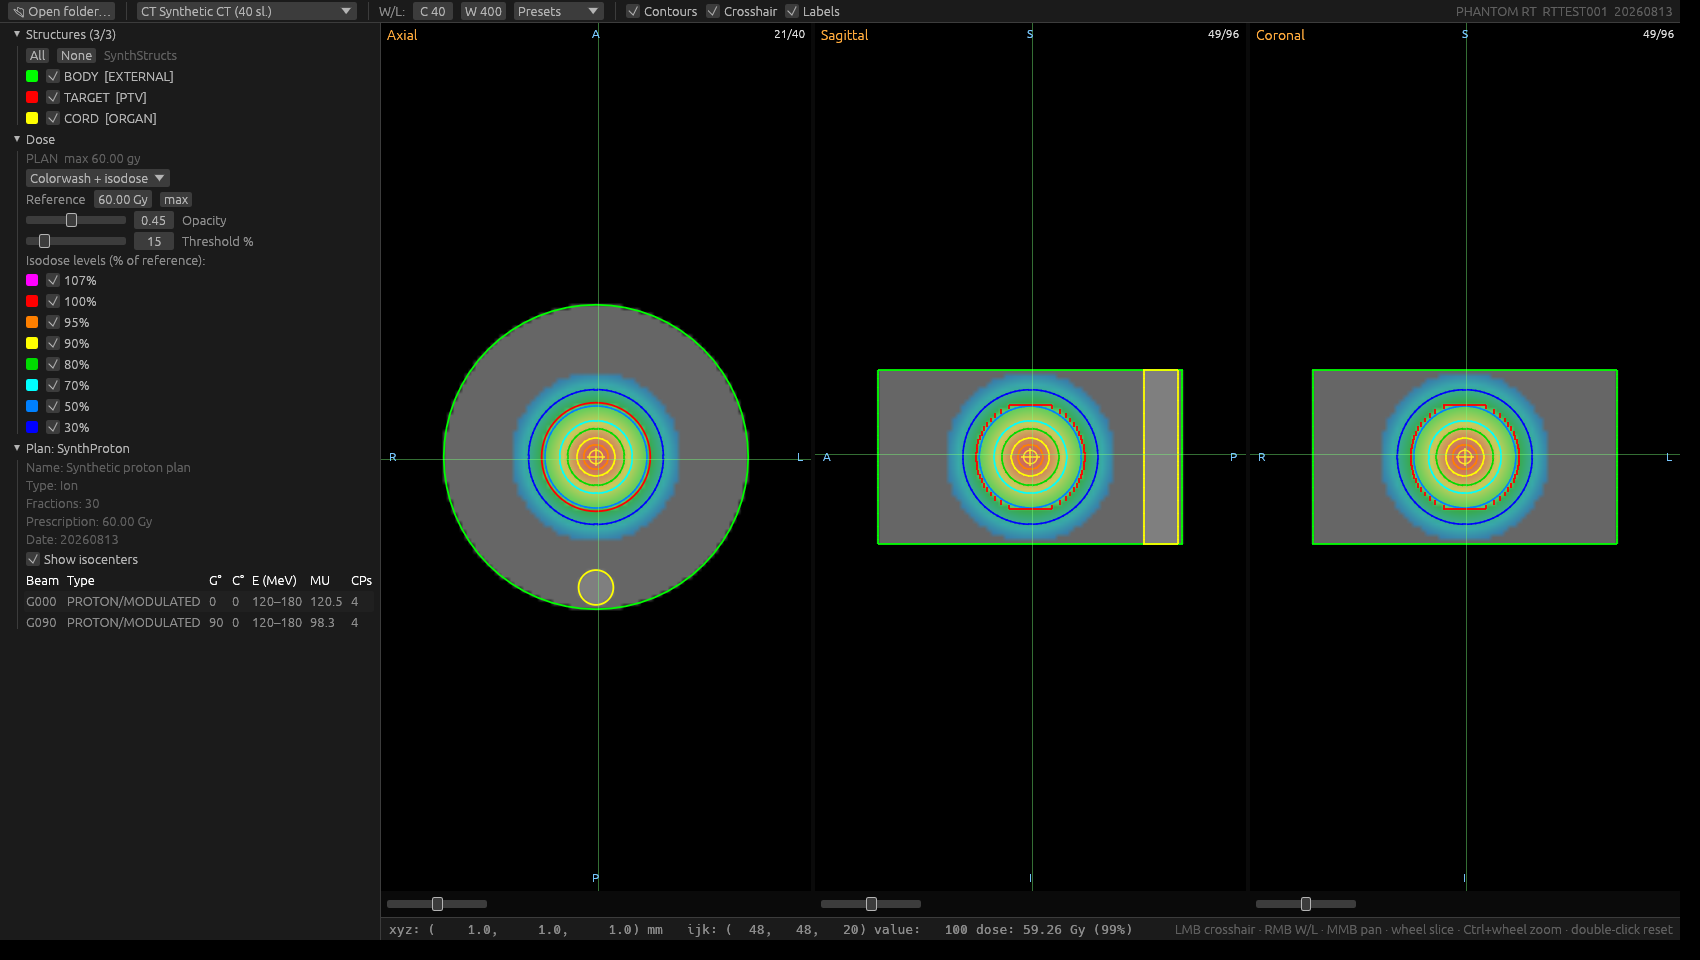
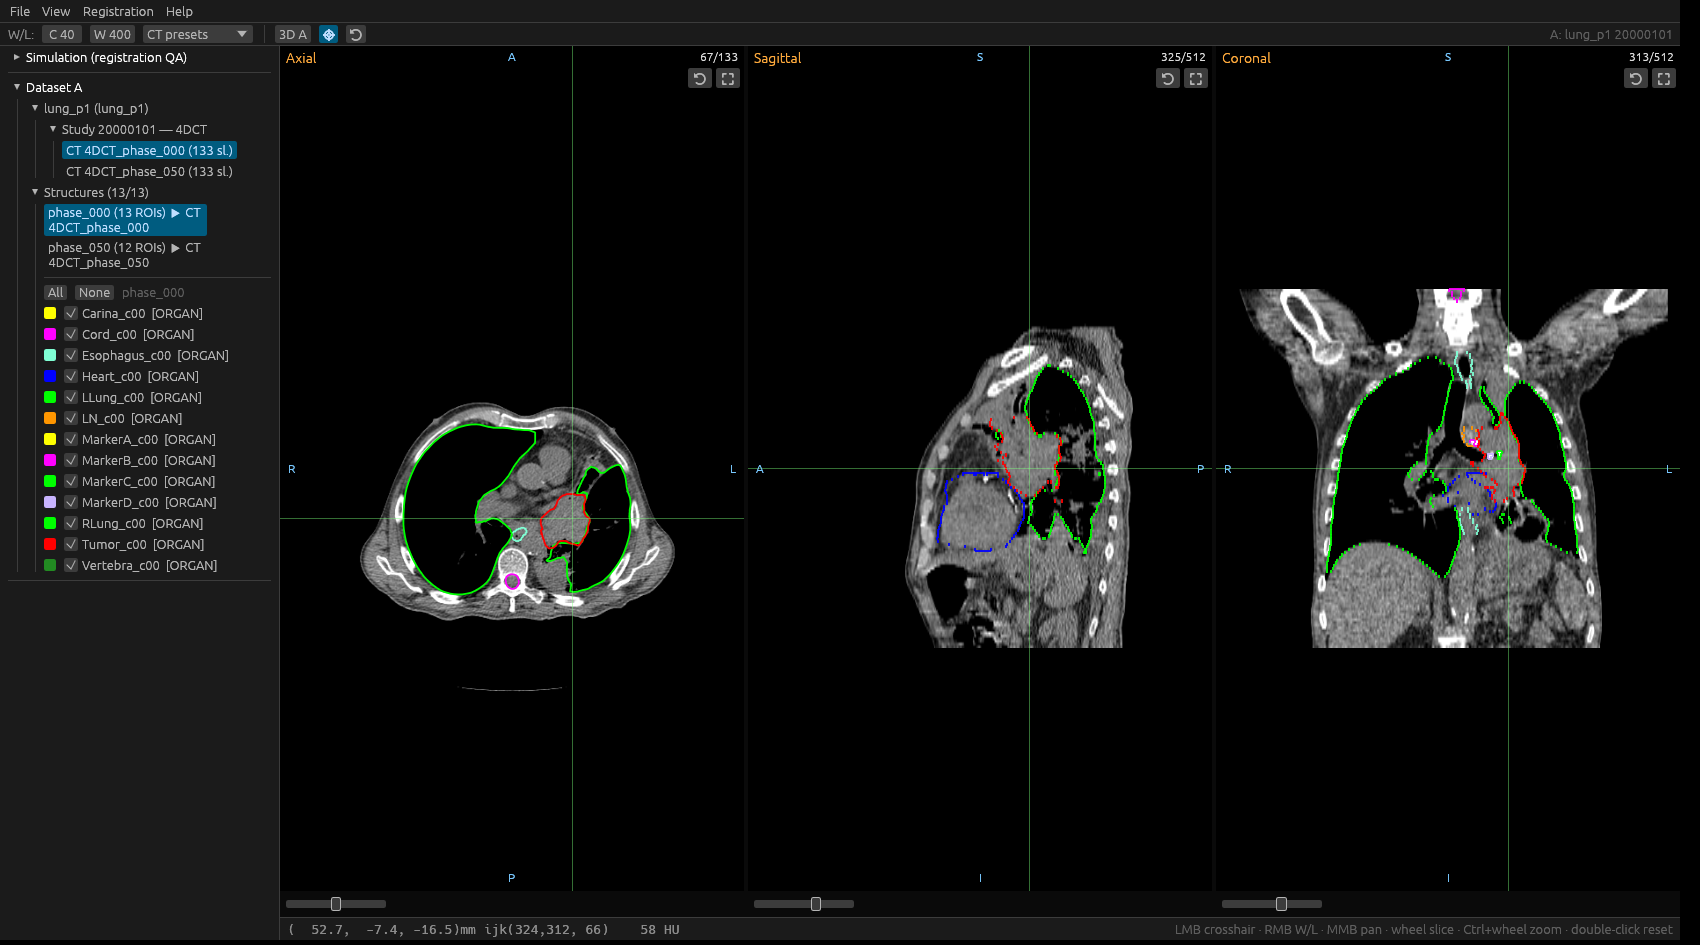
readme + small gui updates

Changed region(s): [[0.0, 0.0, 0.9976, 1.0], [0.7171, 0.3069, 0.9976, 0.7058], [0.4988, 0.3376, 0.7171, 0.7058]]

diff --git a/src/app.rs b/src/app.rs
@@ -862,11 +862,21 @@ impl ViewerApp {
         self.gen_job = Some(GenJob { progress, rx });
     }
 
+    /// Reset zoom, pan and slice (back to the volume center) of every view.
     fn reset_all_views(&mut self) {
         for s in &mut self.slots {
+            let dims = s.study.as_ref().map(|st| st.volume.dims);
             for v in &mut s.views {
                 v.zoom = 0.0;
                 v.pan = Vec2::ZERO;
+                if let Some(dims) = dims {
+                    v.slice = match v.plane {
+                        ViewPlane::Axial => dims[2] / 2,
+                        ViewPlane::Sagittal => dims[0] / 2,
+                        ViewPlane::Coronal => dims[1] / 2,
+                    };
+                    v.invalidate();
+                }
             }
         }
     }
@@ -1686,15 +1696,6 @@ impl ViewerApp {
                     }
 
                     ui.separator();
-                    // Slice-intersection (crosshair) toggle.
-                    if ui
-                        .selectable_label(self.show_crosshair, "⌖")
-                        .on_hover_text("Show / hide the slice intersection (crosshair)")
-                        .clicked()
-                    {
-                        self.show_crosshair = !self.show_crosshair;
-                    }
-
                     // 3D structure rendering windows.
                     for slot in 0..2 {
                         let has_structs = self.slots[slot]
@@ -1718,6 +1719,29 @@ impl ViewerApp {
                         {
                             self.open_d3_window(slot);
                         }
+                    }
+
+                    // Slice-intersection (crosshair) toggle. With the
+                    // crosshair hidden, left-click navigation is disabled.
+                    if ui
+                        .selectable_label(self.show_crosshair, "⌖")
+                        .on_hover_text(
+                            "Show / hide the slice intersection (crosshair).\n\
+                             Hidden: left click does not navigate — slices change \
+                             only by scrolling each view",
+                        )
+                        .clicked()
+                    {
+                        self.show_crosshair = !self.show_crosshair;
+                    }
+
+                    // Reset every view of both datasets.
+                    if ui
+                        .button("⟲")
+                        .on_hover_text("Reset all views (zoom, pan and slice)")
+                        .clicked()
+                    {
+                        self.reset_all_views();
                     }
                 }
 
@@ -2003,28 +2027,8 @@ impl ViewerApp {
     }
 
     fn study_section(&mut self, ui: &mut egui::Ui, slot: usize) {
-        let header = {
-            let study = self.slots[slot].study.as_ref().unwrap();
-            // Distinct patients in this dataset.
-            let mut pats: Vec<&str> = Vec::new();
-            for s in &study.series {
-                let k = s.patient_key();
-                if !pats.contains(&k) {
-                    pats.push(k);
-                }
-            }
-            if pats.len() > 1 {
-                format!("Dataset {} — {} patients", SLOT_NAMES[slot], pats.len())
-            } else {
-                let m = &study.meta;
-                format!(
-                    "Dataset {} — {} {}",
-                    SLOT_NAMES[slot],
-                    m.patient_name.replace('^', " "),
-                    m.study_date
-                )
-            }
-        };
+        // Plain header — the patient(s) always appear as tree nodes below.
+        let header = format!("Dataset {}", SLOT_NAMES[slot]);
         let ch = egui::CollapsingHeader::new(egui::RichText::new(header).strong())
             .id_salt(("study_hdr", slot))
             .default_open(true)
@@ -3477,7 +3481,12 @@ impl ViewerApp {
             }
         }
 
-        if (resp.dragged_by(egui::PointerButton::Primary) || resp.clicked()) && !over_buttons {
+        // Left-click crosshair navigation only while the crosshair is shown;
+        // with ⌖ off, slices change only by scrolling the hovered view.
+        if self.show_crosshair
+            && (resp.dragged_by(egui::PointerButton::Primary) || resp.clicked())
+            && !over_buttons
+        {
             if let Some(mp) = resp.interact_pointer_pos() {
                 let px = screen_to_px(mp);
                 let vxl = vol.plane_pixel_to_voxel(plane, view.slice, px[0] as f64, px[1] as f64);

diff --git a/README.md b/README.md
@@ -11,9 +11,25 @@ Rust — aligns the two datasets with a fusion overlay.
 
 ![screenshot](docs/screenshot.png)
 
+*Single dataset: a lung 4DCT phase with its RT Structure Set (lungs, heart,
+tumor, cord, markers). The crosshair sits in the tumor; the axial view draws
+the native RTSTRUCT contours, sagittal/coronal show reconstructed
+cross-sections of the same ROIs.*
+
 ![comparison mode](docs/screenshot_comparison.png)
 
+*Comparison mode: two opposite breathing phases of the same 4DCT
+(dataset A = phase 0 %, dataset B = phase 50 %), each with its own
+phase-specific structure set. The linked crosshair pins all six views to the
+same patient-space point inside the tumor, so the respiratory shift of the
+diaphragm and tumor is read directly by comparing the rows.*
+
 ![registration](docs/screenshot_registration.png)
+
+*Deformable registration B ▶ A on the two phases: the sidebar reports the
+recovered transform and metric improvement, and the top row now shows the
+magenta/green fusion — aligned anatomy reads gray, residual mismatch shows
+as color fringes.*
 
 ## Features
 
@@ -80,6 +96,19 @@ for A and B side by side. Dataset B can be closed again from the File menu,
 and comparison mode can be switched on/off at any time without unloading
 anything.
 
+A concrete example, shown in the screenshot above with the bundled patient
+data: load `example_data/` and both 4DCT phases appear as two series of one
+study. Right-click *CT 4DCT_phase_050* ▶ *Copy series to dataset B* — the
+phase moves into the lower row together with its own phase-specific
+RTSTRUCT (the reference chain picks the correct one automatically), and
+comparison mode switches on. Click the tumor in any view: because the
+crosshairs are linked through patient coordinates, all six panels jump to
+that point, and the differences between the phases — diaphragm position,
+tumor displacement, chest-wall shape — are read directly by comparing the
+two rows slice by slice. The two phases share one frame of reference, so
+before any registration this is a pure anatomical comparison of the same
+coordinates at two moments of the breathing cycle.
+
 **Image registration (rigid & non-rigid).** With two datasets loaded, the
 *Registration* menu (or the sidebar section) registers one dataset onto the
 other — the direction is selectable (**B ▶ A** or **A ▶ B**; the second
@@ -110,10 +139,24 @@ translation/rotation, and enables a **magenta/green fusion overlay** on the
 fixed study (fixed image in magenta, the transformed moving image in green —
 aligned anatomy reads gray) with a blend slider. The cross-study crosshair
 link maps through the recovered transform (inverse included), so clicking a
-point in either study lands on the same anatomy in the other. Iterations, samples and grid spacing are adjustable in the
-sidebar. Accuracy is verified in `tests/registration.rs` against analytically
-known transforms: sub-millimeter recovery for both a rigid rotation +
-translation and a 7 mm Gaussian-bump deformation.
+point in either study lands on the same anatomy in the other. Iterations,
+samples and grid spacing are adjustable in the sidebar.
+
+On the bundled patient data (registration screenshot above) the workflow
+is: two breathing phases loaded as datasets A and B, direction left at
+**B ▶ A**, one click on *▶ Deformable*. On this 512 × 512 × 133 CT the
+whole run — rigid pre-alignment plus three B-spline resolution levels,
+1800 iterations total — takes about 20 s on a desktop CPU and drives the
+mean-squared HU difference from ≈ 9700 down to ≈ 1800. The recovered rigid
+part is sub-millimeter (the phases share one frame of reference, so almost
+all real motion is breathing deformation, which the B-spline absorbs), and
+the fusion overlay turns mostly gray: the remaining magenta/green fringes
+at the diaphragm and chest wall mark exactly the residual respiratory
+motion the 32 mm grid cannot fully model — tightening the grid spacing
+refines it further at the cost of runtime. Accuracy is verified in
+`tests/registration.rs` against analytically known transforms:
+sub-millimeter recovery for both a rigid rotation + translation and a 7 mm
+Gaussian-bump deformation.
 
 **Planar images (DX / CR / RTIMAGE).** Digital radiographs and RT images
 (DRRs, portal / setup images) found in the study folder are listed in the
@@ -197,8 +240,12 @@ reopening the window is instant.
 Each viewport also carries two corner buttons: **⟲** resets that view's zoom,
 pan **and slice** (back to the volume's central slice), and **⛶ / ❐**
 maximizes the view to fill the whole window and restores the multi-view
-layout again. The **⌖** toggle in the toolbar shows/hides the slice
-intersection lines (crosshair) in all views.
+layout again. The toolbar holds the **3D A / 3D B** buttons, the **⌖**
+toggle and a global **⟲** that resets every view of both datasets at once.
+**⌖** shows/hides the slice intersection lines (crosshair) — and while the
+crosshair is hidden, left-click navigation is disabled entirely: clicking a
+view no longer moves the other views' slices, and slices change only by
+scrolling each view individually.
 
 Common CT window presets (brain, subdural, stroke, head/neck soft tissue,
 temporal bone, lungs, mediastinum, abdomen, liver, spine, bone, CT angio,
@@ -273,7 +320,11 @@ That is a ready-made comparison-mode and registration test case with real
 respiratory motion: the tumor and the markers move visibly between the two
 phases, and *Registration ▶ Deformable* has something anatomically real to
 recover — unlike the synthetic phantom below, where the ground truth is known
-but the deformation is analytic.
+but the deformation is analytic. All three screenshots at the top of this
+README are made from this dataset. Equivalently, load the whole
+`example_data/` folder as dataset A (both phases appear as two series of one
+study) and right-click one phase ▶ *Copy series to dataset B* — same result
+without a second command-line argument.
 
 ### Source and citation
 
